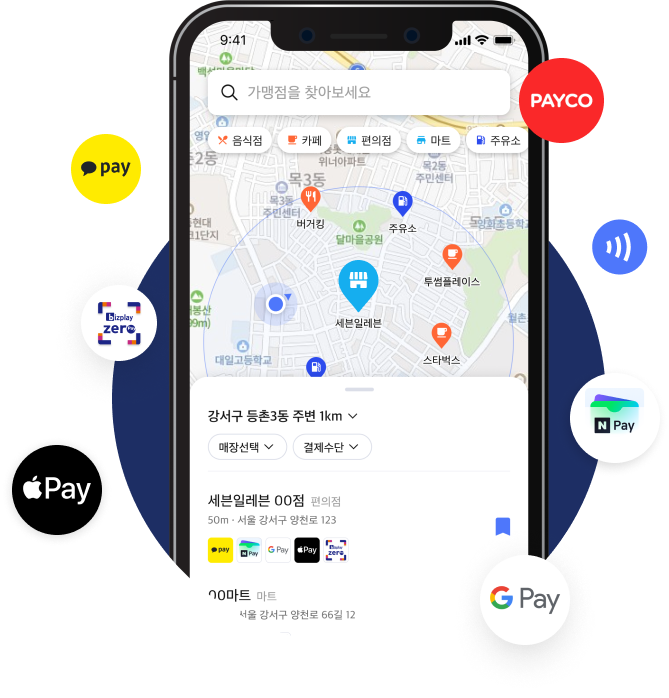
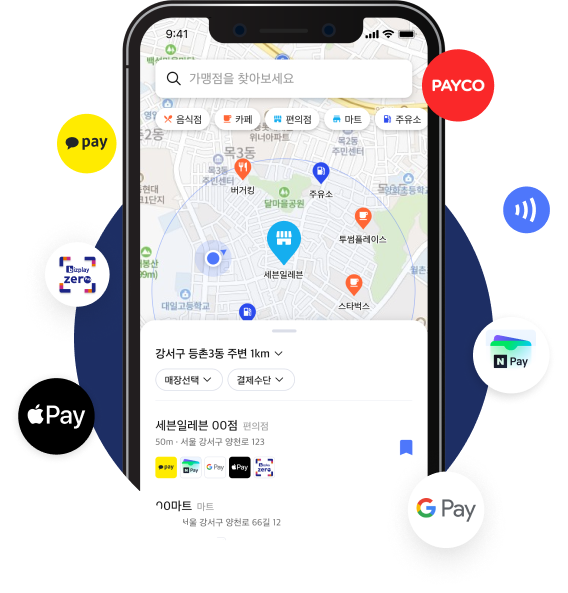
Modified ServicePage CSS & JS

diff --git a/src/components/BetaService.scss b/src/components/BetaService.scss
@@ -6,7 +6,7 @@
     flex-direction: column;
     justify-content: space-between;
     text-align: center;
-    height: 600px;
+    height: 400px; // 시작되면 500으로
     padding-top: 60px;
     #betaText {
       color: white;
@@ -21,33 +21,14 @@
         line-height: 145%;
       }
     }
-    form {
-      input {
-        border: none;
-        width: 140px;
-        height: 40px;
-        padding-left: 10px;
-        border-radius: 12px;
-        &:first-child {
-          margin-right: 14px;
-        }
-      }
-      input[type='email'] {
-        display: block;
-        margin: 0 auto;
-        margin-top: 20px;
-        margin-bottom: 20px;
-        width: 294px;
-      }
-      button {
-        display: block;
-        border: none;
-        color: white;
-        background: black;
-        border-radius: 12px;
-        padding: 10px 60px;
-        margin: 0 auto;
-      }
+    button {
+      display: block;
+      border: none;
+      color: white;
+      background: black;
+      border-radius: 12px;
+      padding: 10px 60px;
+      margin: 0 auto;
     }
     img {
       width: 221px;
@@ -62,7 +43,7 @@
     flex-direction: column;
     justify-content: space-between;
     text-align: center;
-    height: 600px;
+    height: 500px;
     padding-top: 40px;
     #betaText {
       color: white;
@@ -78,32 +59,14 @@
         line-height: 145%;
       }
     }
-    form {
-      input {
-        border: none;
-        width: 130px;
-        height: 40px;
-        padding-left: 10px;
-        border-radius: 12px;
-        &:nth-child(2) {
-          margin: 0 14px;
-        }
-      }
-      input[type='email'] {
-        margin: 0 auto;
-        margin-top: 20px;
-        margin-bottom: 20px;
-        width: 234px;
-      }
-      button {
-        display: block;
-        border: none;
-        color: white;
-        background: black;
-        border-radius: 12px;
-        padding: 10px 60px;
-        margin: 0 auto;
-      }
+    button {
+      display: block;
+      border: none;
+      color: white;
+      background: black;
+      border-radius: 12px;
+      padding: 10px 60px;
+      margin: 0 auto;
     }
     img {
       width: 350px;
@@ -135,38 +98,15 @@
         line-height: 145%;
       }
     }
-    form {
-      float: left;
-      input {
-        border: none;
-        width: 7.8vw;
-        // padding: 12px 0;
-        padding: 0.6vw 0;
-        padding-left: 10px;
-        border-radius: 12px;
-        font-size: 0.9vw;
-        &:nth-child(2) {
-          margin: 0 14px;
-        }
-        &::placeholder {
-        }
-      }
-      input[type='email'] {
-        width: 12vw;
-        margin: 0 auto;
-        margin-top: 20px;
-        margin-bottom: 20px;
-      }
-      button {
-        padding: 0.6vw 0;
-        font-size: 0.9vw;
-        border: none;
-        color: white;
-        background: black;
-        border-radius: 12px;
-        width: 8.4vw;
-        margin-left: 10px;
-      }
+    button {
+      padding: 0.6vw 0;
+      font-size: 0.9vw;
+      border: none;
+      color: white;
+      background: black;
+      border-radius: 12px;
+      width: 8.4vw;
+      margin-left: 10px;
     }
     img {
       width: 20vw;

diff --git a/src/components/BetaService.tsx b/src/components/BetaService.tsx
@@ -1,14 +1,10 @@
 import React from 'react';
-import { useInput } from '../hooks/useInput';
 import { useAppSelector } from '../redux/hooks';
 
 import './BetaService.scss';
 
 function BetaService() {
   const { windowX } = useAppSelector(state => state.event);
-  const [lastName, onChangeLastName] = useInput('');
-  const [firstName, onChangeFirstName] = useInput('');
-  const [email, onChangeEmail] = useInput('');
 
   return (
     <div id="betaContainer">
@@ -22,6 +18,8 @@ function BetaService() {
               탭플레이스를 미리 경험해보세요!
               <br />
               베타 테스터가 되어 보내주시는 의견이 큰 힘이 됩니다.
+              <br />
+              베타 테스트는 16일부터 시작됩니다.
             </h4>
           </>
         ) : (
@@ -31,39 +29,13 @@ function BetaService() {
               경험해보세요!
               <br />
               베타 테스터가 되어 보내주시는 의견이 큰 힘이 됩니다.
+              <br />
+              베타 테스트는 16일부터 시작됩니다.
             </h4>
           </>
         )}
       </div>
-      <form
-        onSubmit={(e: any) => {
-          e.preventDefault();
-          console.log(lastName, firstName, email);
-        }}
-      >
-        <input
-          type="text"
-          name="lastName"
-          value={lastName}
-          onChange={onChangeLastName}
-          placeholder="성"
-        />
-        <input
-          type="text"
-          name="firstName"
-          value={firstName}
-          onChange={onChangeFirstName}
-          placeholder="이름"
-        />
-        <input
-          type="email"
-          name="email"
-          value={email}
-          onChange={onChangeEmail}
-          placeholder="이메일 주소"
-        />
-        <button type="submit">신청하기</button>
-      </form>
+      {/* <button>신청하기</button> */}
       <img src={require('../img/betaImg.png')} alt="betaImg" />
     </div>
   );

diff --git a/src/components/introService/IntroMember.tsx b/src/components/introService/IntroMember.tsx
@@ -67,34 +67,47 @@ function IntroMember() {
       <div id="memberSlider" onScroll={onScrollX}>
         <MemberImg
           name="박상현"
+          img={require('../../img/ServicePage/Memoji/IOS1.png')}
           position="IOS Developer"
           say='"안녕하세요 아이폰 개발 파트 박상현입니다"'
+          sns={{ mail: 'ios.humhae@gmail.com', instargram: '@pshyeonni' }}
         />
         <MemberImg
           name="이상준"
+          img={require('../../img/ServicePage/Memoji/IOS1.png')}
           position="IOS Developer"
           say='"안녕하세요 앱 개발 이상준입니다"'
         />
         <MemberImg
           name="지경희"
+          img={require('../../img/ServicePage/Memoji/Android1.jpg')}
           position="Android Developer"
           say='"안녕하세요 앱 개발 지경희입니다"'
         />
+        {/* <MemberImg
+          name="김진욱"
+          img={require('../../img/ServicePage/Memoji/Android1.jpg')}
+          position="Android Developer"
+          say='"안녕하세요 앱 개발 김진욱입니다"'
+        />
         <MemberImg
           name="김지훈"
+          img={require('../../img/ServicePage/Memoji/Back.png')}
           position="BackEnd Developer"
           say='"안녕하세요 웹 백엔드 김지훈입니다"'
         />
         <MemberImg
           name="임준혁"
+          img={require('../../img/ServicePage/Memoji/IOS1.png')}
           position="FrontEnd Developer"
           say='"안녕하세요 웹 프론트엔드 임준혁입니다"'
         />
         <MemberImg
           name="고은혜"
+          img={require('../../img/ServicePage/Memoji/IOS1.png')}
           position="UIUX Designer"
           say='"안녕하세요 UI/UX 고은혜 입니다"'
-        />
+        /> */}
       </div>
       <div id="memberProgressContainer">
         <div id="progressBar" style={scrollStyle} />

diff --git a/src/components/introService/MemberImg.tsx b/src/components/introService/MemberImg.tsx
@@ -6,12 +6,14 @@ import '../../style/components/introService/Member.scss';
 
 type MemberType = {
   id?: string;
+  img: string;
   name: string;
   position: string;
   say?: string;
+  sns?: any;
 };
 
-function MemberImg({ id, name, position, say }: MemberType) {
+function MemberImg({ id, img, name, position, say, sns }: MemberType) {
   const { windowX } = useAppSelector(state => state.event);
   const [hover, setHover] = useState(false);
 
@@ -20,15 +22,15 @@ function MemberImg({ id, name, position, say }: MemberType) {
       <div className="memberContainer">
         <img
           id={id}
-          src=""
-          alt=""
+          src={img}
+          alt="memberImg"
           className="memberImg"
           onMouseOver={() => windowX >= 1024 && setHover(true)}
         />
         {hover && (
           <div className="memberHover" onMouseOut={() => setHover(false)}>
             <p>{say}</p>
-            <SNSLogoContainer />
+            <SNSLogoContainer sns={sns} />
           </div>
         )}
         <div className="memberSubContainer">
@@ -37,7 +39,7 @@ function MemberImg({ id, name, position, say }: MemberType) {
           {windowX < 1024 && (
             <>
               <p className="memberSay">{say}</p>
-              <SNSLogoContainer />
+              <SNSLogoContainer sns={sns} />
             </>
           )}
         </div>

diff --git a/src/components/introService/IntroMainService.tsx b/src/components/introService/IntroMainService.tsx
@@ -33,12 +33,25 @@ function IntroMainService() {
         </p>
         <StoreButton />
       </article>
-      <img
-        id="appScreenMain"
-        className="mockupImg"
-        src={require('../../img/ServicePage/appScreenMain.png')}
-        alt="mockup_1"
-      />
+      {windowX < 768 ? (
+        <>
+          <>
+            <img
+              id="appScreenMain"
+              className="mockupImg"
+              src={require('../../img/ServicePage/appScreenMainMobile.png')}
+              alt="mainImg"
+            />
+          </>
+        </>
+      ) : (
+        <img
+          id="appScreenMain"
+          className="mockupImg"
+          src={require('../../img/ServicePage/appScreenMain.png')}
+          alt="mainMobileImg"
+        />
+      )}
     </div>
   );
 }

diff --git a/src/style/components/introService/IntroMainFunction.scss b/src/style/components/introService/IntroMainFunction.scss
@@ -102,14 +102,14 @@
         margin-bottom: 30px;
       }
       .appScreenPreviewImg {
-        width: 350px;
+        width: 300px;
         border-radius: 10px;
         box-shadow: 0px 1px 6px rgb(0 0 0 / 16%);
         margin: 0 auto;
       }
       #appScreenFeedbackImg {
-        width: 330px;
-        height: 350px;
+        width: 300px;
+        height: 320px;
         margin: 0 auto;
         margin-top: 30px;
       }

diff --git a/src/components/introService/SNSLogoContainer.tsx b/src/components/introService/SNSLogoContainer.tsx
@@ -2,7 +2,11 @@ import React from 'react';
 
 import '../../style/components/introService/SNSLogoContainer.scss';
 
-function SNSLogoContainer() {
+function SNSLogoContainer({ sns }: any) {
+  for (const key in sns) {
+    console.log(key);
+    console.log(sns[key]);
+  }
   return (
     <ul className="snsLink">
       <img

diff --git a/src/components/Header.tsx b/src/components/Header.tsx
@@ -55,7 +55,7 @@ function Header() {
       >
         <ul>
           <li>
-            <Link to="/" className="headerMenu" onClick={onMovePage}>
+            <Link to="/" className="headerMenu active" onClick={onMovePage}>
               서비스 소개
             </Link>
           </li>

diff --git a/src/style/pages/Service.scss b/src/style/pages/Service.scss
@@ -37,9 +37,11 @@ ul {
 
 // 모바일
 @include mobile {
-  .mockupImg {
+  #appScreenMain {
     display: block;
-    width: 250px;
+    width: 320px;
+    // width: 90vw;
+    filter: none;
   }
 }
 
